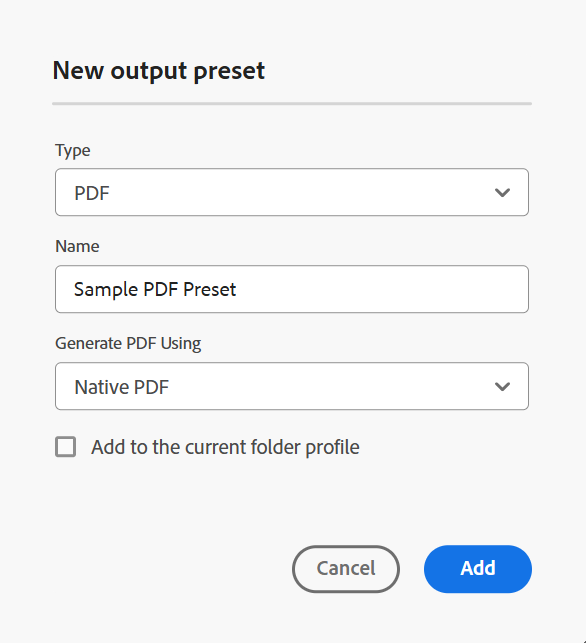
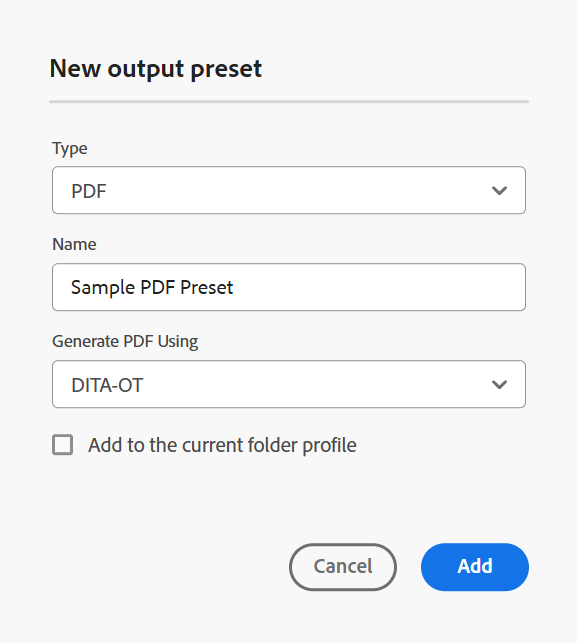
updated-docs

diff --git a/help/product-guide/user-guide/pass-metadata-dita-ot.md b/help/product-guide/user-guide/pass-metadata-dita-ot.md
@@ -9,15 +9,17 @@ role: User
 
 Metadata is additional information about the output. In Adobe Experience Manager Guides, you can pass on the existing metadata or create custom metadata tags. You can pass on metadata to AEM, PDF, HTML5, EPUB, and Custom format outputs using DITA-OT publishing.
 
+There are two ways to pass on the metadata to the Output using DITA-OT:
+
+- [Using Map console](#using-map-console)
+- [Using Map dashboard](#using-map-dashboard)
+
+## Using Map console
+
 Perform the following steps to pass on the metadata to the output using DITA-OT publishing:
 
 1.  [Open the DITA map file in map console](./open-files-map-console.md) for which you want to pass the metadata to the DITA-OT. 
-1.  Select and open an output preset to which you want to pass the metadata fields. For example, select PDF output preset. Ensure that it is created using the **DITA-OT** option. 
-
-    >[!NOTE]
-    >
-    > You can also use the Map dashboard to pass on the metadata to the output. For this, you can open the DITA Map file in the Assets UI for which you want to pass the metadata to the DITA-OT. In the **Output Presets** tab, select and edit an output preset to which you want to pass the metadata fields. Select the **DITA-OT** option under Generate <output\> Using in the selected output Preset.
-
+1.  Select and open an output preset to which you want to pass the metadata fields. For example, select PDF output preset. Ensure that it is created using the **DITA-OT** option.    
 1.  From the **File properties** dropdown select the metadata that you want to pass to DITA-OT publishing.
 
     ![](images/custom-metadata-output-preset-new.png){width="800" align="left"}
@@ -45,7 +47,7 @@ The selected metadata properties will be passed to the output generated using DI
 >
 > As of 2025.02.0 and 5.0 release of Experience Manager Guides, the functionality to pass root map metadata arguements through DITA-OT command line has been deprecated. However, to avoid any disruptions, a new property has been added in the `Config.Manager` to enable or disable the functionality.  For more details, view [Configure output generation settings](../cs-install-guide/conf-output-generation.md#configure-the-dita-ot-command-line-arguement-field-on-the-dita-map-dashboard).
 
-**Using Map dashboard**
+## Using Map dashboard
 
 If working on the **Assets UI**, perform the following steps to pass on the metadata to the output using DITA-OT publishing:
 

diff --git a/help/product-guide/user-guide/generate-output-knowledge-base.md b/help/product-guide/user-guide/generate-output-knowledge-base.md
@@ -29,7 +29,7 @@ Perform the following steps to create the **Knowledge Base** preset from the Map
 ## Knowledge Base configuration{#knowledge-base-configuration}
 
 
-The Knowledge Base preset configuration options are organized under the **General**, **Articles**, and the selected target (**AEM**/ **ServiceNOW**/ **Salesforce**) tabs. 
+The Knowledge Base preset configuration options are organized under the **General**, **Articles**, and the selected target (**AEM**/ **ServiceNow**/ **Salesforce**) tabs. 
 
 ![](./images/kb-aem-preset.png){width="550" align="left"}
 
@@ -47,7 +47,7 @@ The following configuration options are available under the **General** tab:
 
 This tab displays the tree or hierarchical view of the map. Choose the topics you want to publish to a knowledge base. Expand a TOC node and choose the topics that you want to publish. 
 
-### Target - Adobe Experience Manager/ServiceNOW/Salesforce
+### Target - Adobe Experience Manager/ServiceNow/Salesforce
 
 The configuration options change based on the target that you select.
 
@@ -74,9 +74,9 @@ The following configuration options are displayed for **Adobe Experience Manager
 > 
 >Select the **Refresh** icon to populate the respective templates in the fields as per the Knowledge Base template that you have selected.
 
-**ServiceNOW**
+**ServiceNow**
 
-The following configuration options are displayed for **ServiceNOW** as target:
+The following configuration options are displayed for **ServiceNow** as target:
 
 | ServiceNow  options | Description |
 | --- | --- |

diff --git a/help/product-guide/user-guide/map-console-overview.md b/help/product-guide/user-guide/map-console-overview.md
@@ -28,7 +28,7 @@ The Map console interface is primarily divided into two sections - **Navigation 
     >
     > If using the Adobe Experience Manager Guides as a Cloud Service, an additional feature [AI Assistant](./ai-assistant.md) is displayed in the navigation bar. 
 
-- (**B**) **Left panel**: The left panel gives you quick access to Output generation, Report creation and management, Baseline, Condition presets, and Content translation features. 
+- (**B**) **Left panel**: The left panel gives you quick access to Output generation, Report creation and management, Baseline, Condition presets, Content translation, and Workfront (only if configured) features. 
 
     For more details, refer to the [Map console features](#map-console-features) section below.
 
@@ -69,7 +69,7 @@ In Map console, you get access to all the options required to get started with t
 
 **Workfront**
 
-The Workfront feature is also present in the Map console that allows you to work with Adobe Worfront tasks right from the Experience Manager Guides. 
+The Workfront feature is also present in the Map console that allows you to work with Adobe Workfront tasks right from the Experience Manager Guides. 
 
 Learn about [Adobe Workfront integration in Experience Manager Guides](./workfront-integration.md). 
   
